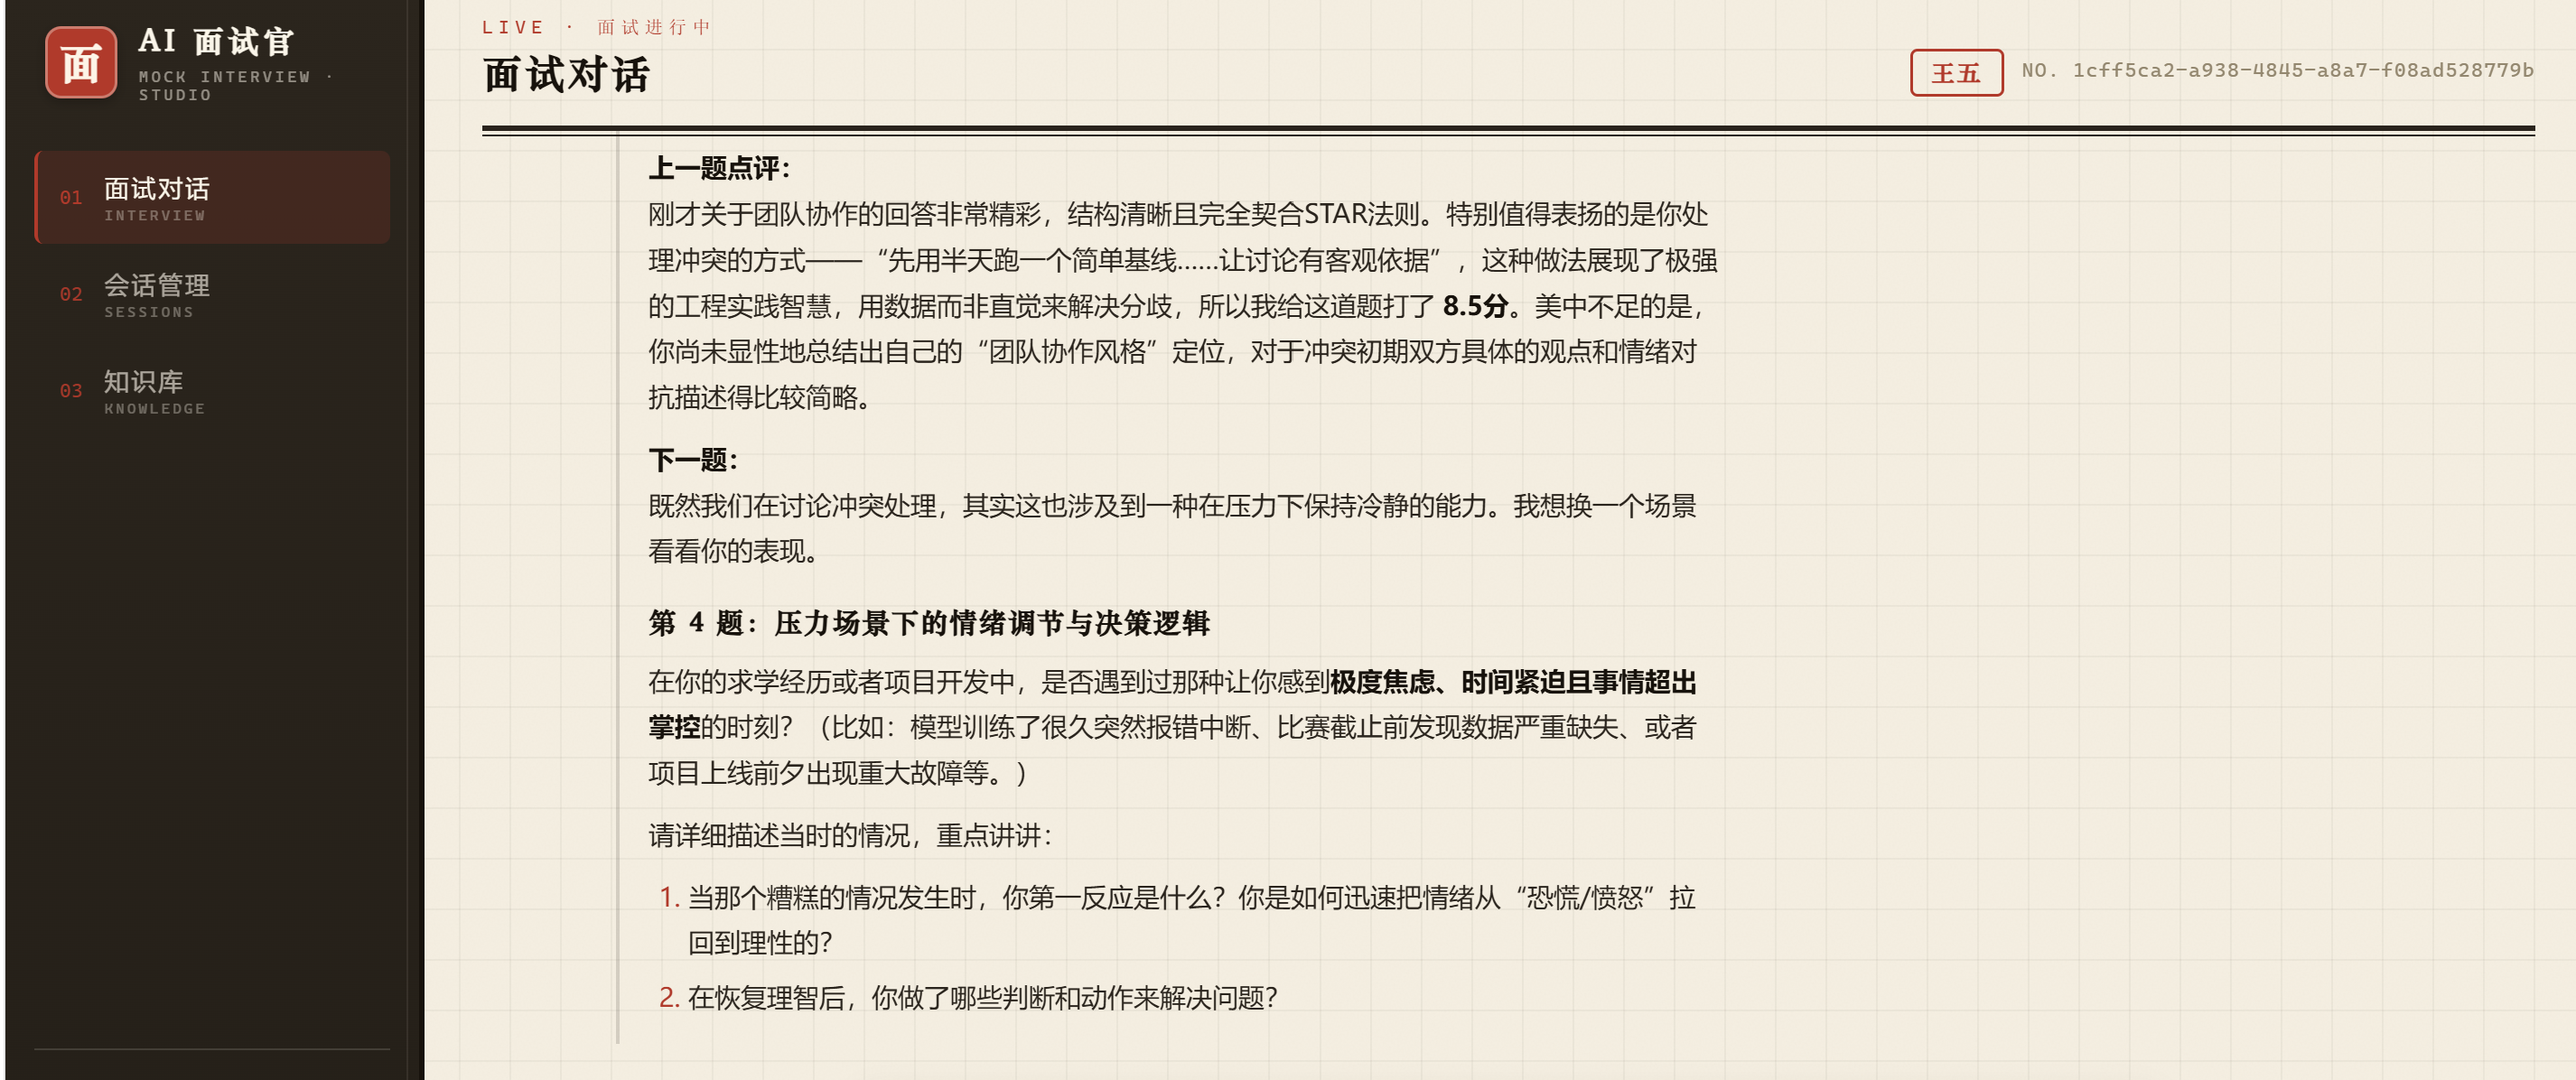
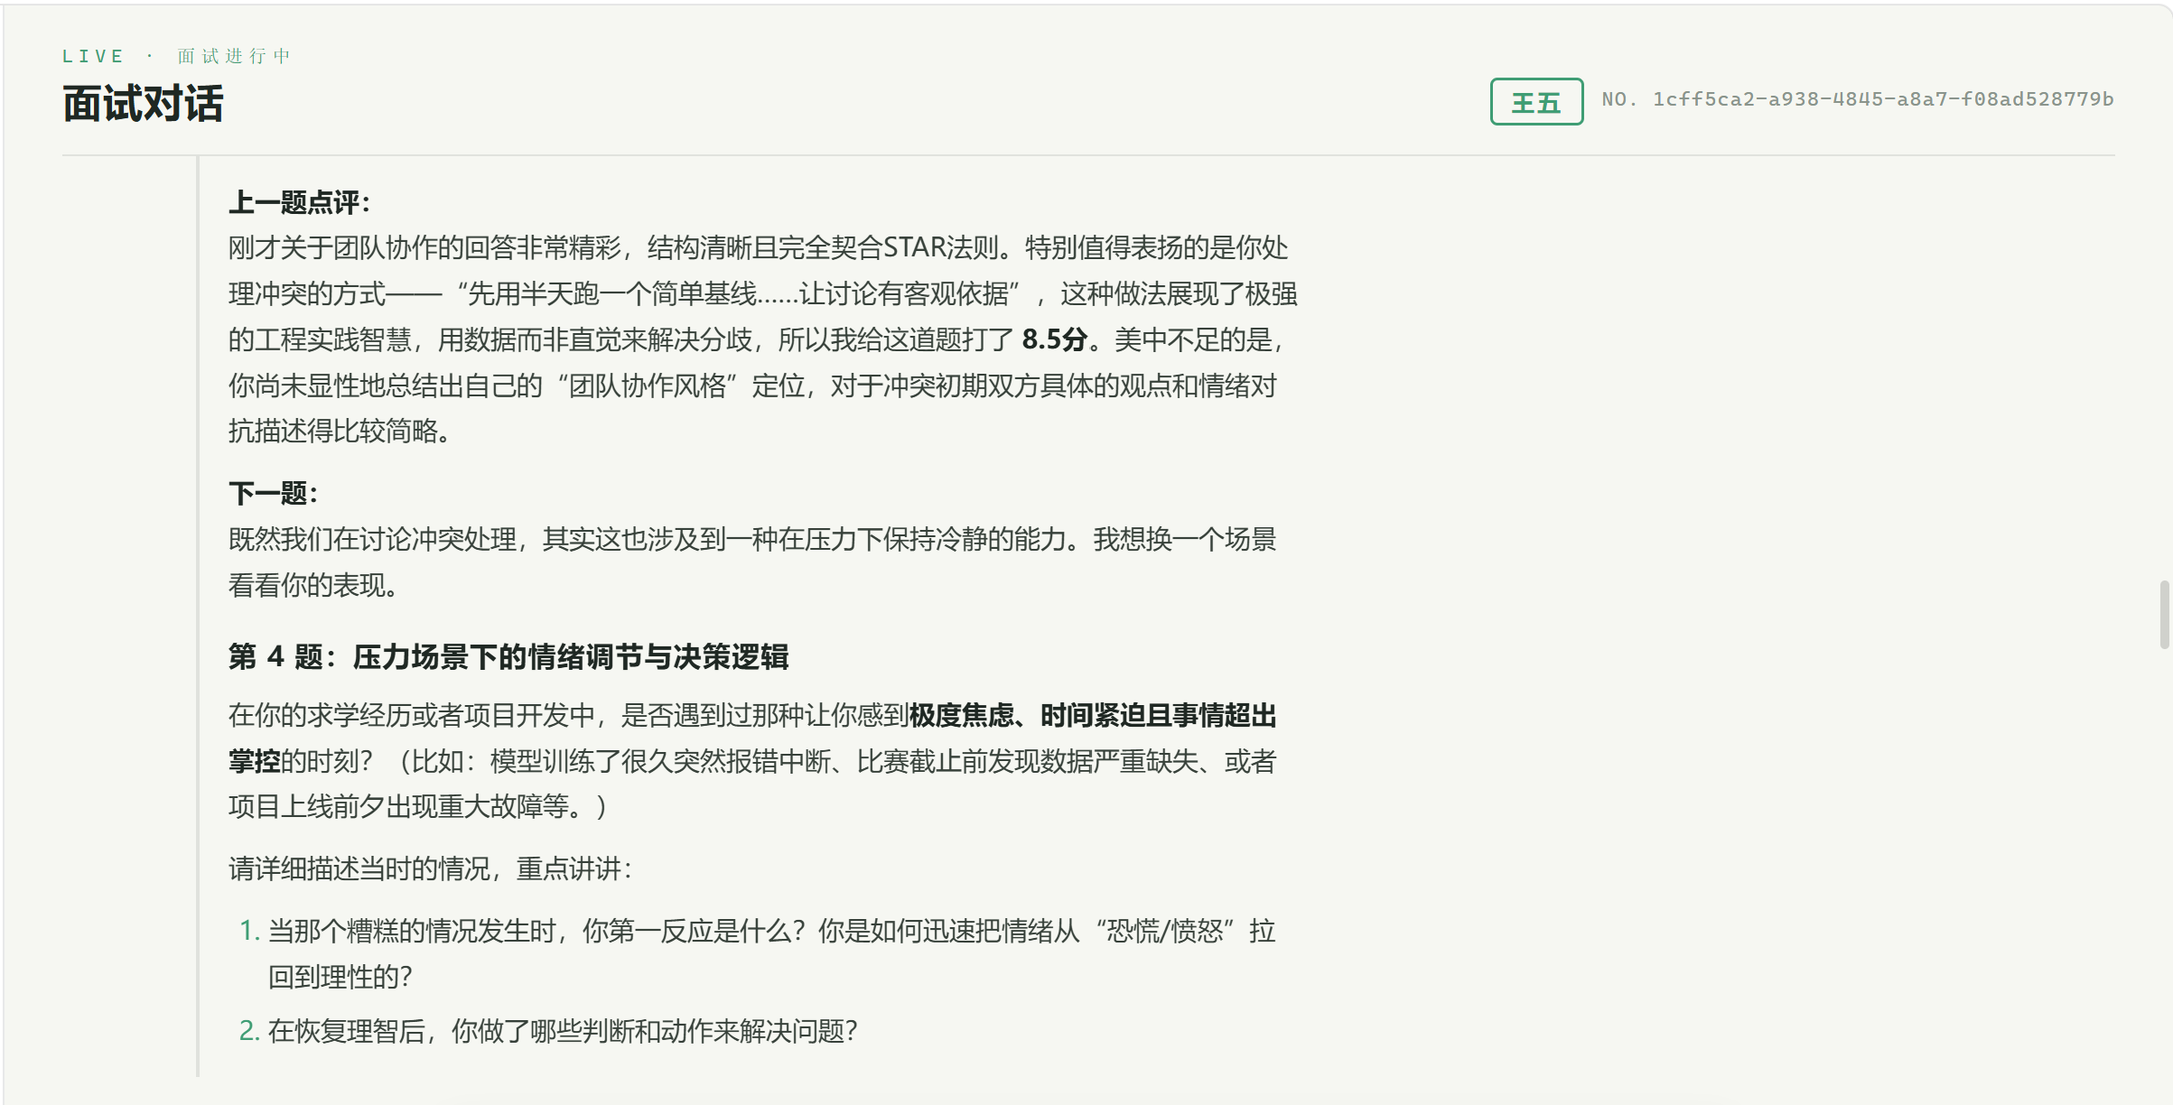
docs: README 架构图改为图片引用，更新界面截图至新薄荷绿风格

diff --git a/README.md b/README.md
@@ -15,67 +15,15 @@
 
 ## 系统架构
 
-```mermaid
-flowchart TB
-    User([用户]) -->|REST / SSE| FE["Vue 3 前端<br/>聊天 / 会话 / 知识库"]
+![AI Interviewer 系统架构图](docs/images/architecture-new.png)
 
-    subgraph Backend["Spring Boot 后端（WebFlux）"]
-        AC["AssistantController<br/>SSE 流式"] --> AR["AgentRouter<br/>①复用快路径 ②资料规则路径 ③语义路由"]
-        ASMT["AssessmentController<br/>GET /report"] --> RPT["AssessmentReportService<br/>覆盖矩阵 + 证据链报告"]
-        AR -->|无资料| IA
-        AR -->|命中资料| PIPE["MaterialInterviewPipeline<br/>Parallel 并行分析官×N"]
-
-        subgraph Agents["ReactAgent 层（4 个）"]
-            PIPE --> AN["分析官×3<br/>JD / 简历 / 代码<br/>MCP 只读读资料"]
-            AN -->|结构化清单落库| CP[("code_profile")]
-            IA["面试官<br/>InterviewAssistant"]
-        end
-
-        IA -->|"ensurePlan"| PLAN["InterviewPlanService<br/>面试计划（考点词表封闭）"]
-        PLAN -->|落库| IP[("interview_plan")]
-        IA -->|"评估上一答（前置）"| EVAL["AnswerEvaluatorService<br/>结构化评分"]
-        EVAL -->|落库| SR[("score_record")]
-
-        subgraph Caps["Agent 核心能力层"]
-            MEM["短期记忆<br/>Redis 滑动窗口"]
-            TOOL["工具调用<br/>@Tool 自定义"]
-            RAG["知识检索 RAG<br/>RedisStack 向量库"]
-            MCP["MCP 工具<br/>Filesystem 只读"]
-        end
-        IA -.-> Caps
-    end
-
-    FE --> AC
-    FE --> ASMT
-    Caps --> DS[("Redis Stack<br/>记忆 + 向量")]
-    CP & IP & SR --> PG[("PostgreSQL<br/>业务数据 + 评分留痕")]
-```
+> 前端三页面 → WebFlux 后端（路由 / 画像 / 面试官 / 评估闭环 / 核心能力层）→ 百炼模型服务，数据落 PostgreSQL 与 Redis Stack
 
 ## 核心流程（一次资料面试会话）
 
-```mermaid
-sequenceDiagram
-    participant U as 用户
-    participant R as AgentRouter
-    participant P as 分析官×3（并行）
-    participant F as 面试官
-    participant E as 评估器
-    participant DB as PostgreSQL
+![AI Interviewer 核心流程时序图](docs/images/interview-flow.png)
 
-    U->>R: 首条消息（附 JD/简历/代码资料）
-    R->>P: 规则路径命中资料 → MaterialInterviewPipeline
-    P->>DB: MCP 读资料 → 结构化清单 → code_profile 落库
-    P->>F: 画像完成，进入面试
-    F->>DB: ensurePlan：生成/升级《面试计划》落库
-    loop 每一轮提问
-        F->>E: 评估上一答（考官/评分分离）
-        E->>DB: 结构化评分 → score_record 留痕
-        E-->>F: 【上一题评估】注入 → 调整下一题难度
-        F->>U: 组装上下文（薄弱点→计划→清单→RAG）→ SSE 流式出题
-    end
-    U->>F: GET /api/assessment/{sid}/report
-    F-->>U: 计划 vs 实际覆盖矩阵 + LLM 结论 = 评估报告
-```
+> 路由命中资料 → 分析官×3 并行画像落库 → 生成《面试计划》→ 每轮「评估上一答 → 调整难度 → 流式出题」闭环 → 输出《面试评估报告》
 
 ## 技术栈
 
